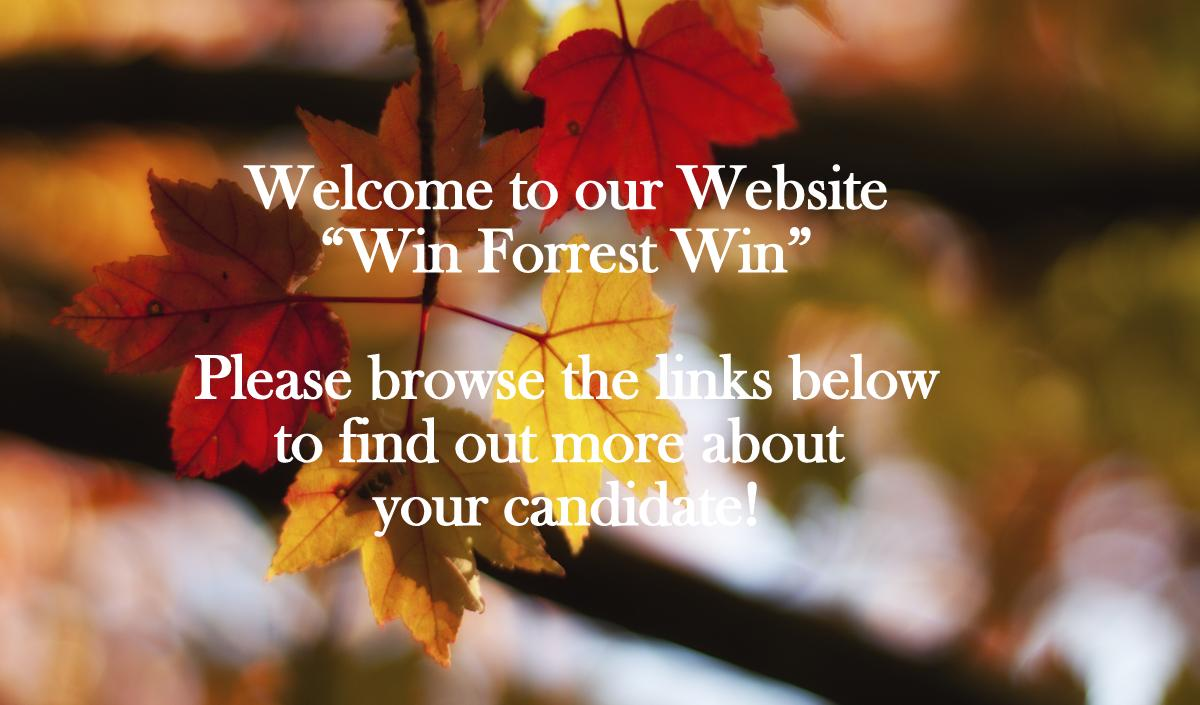
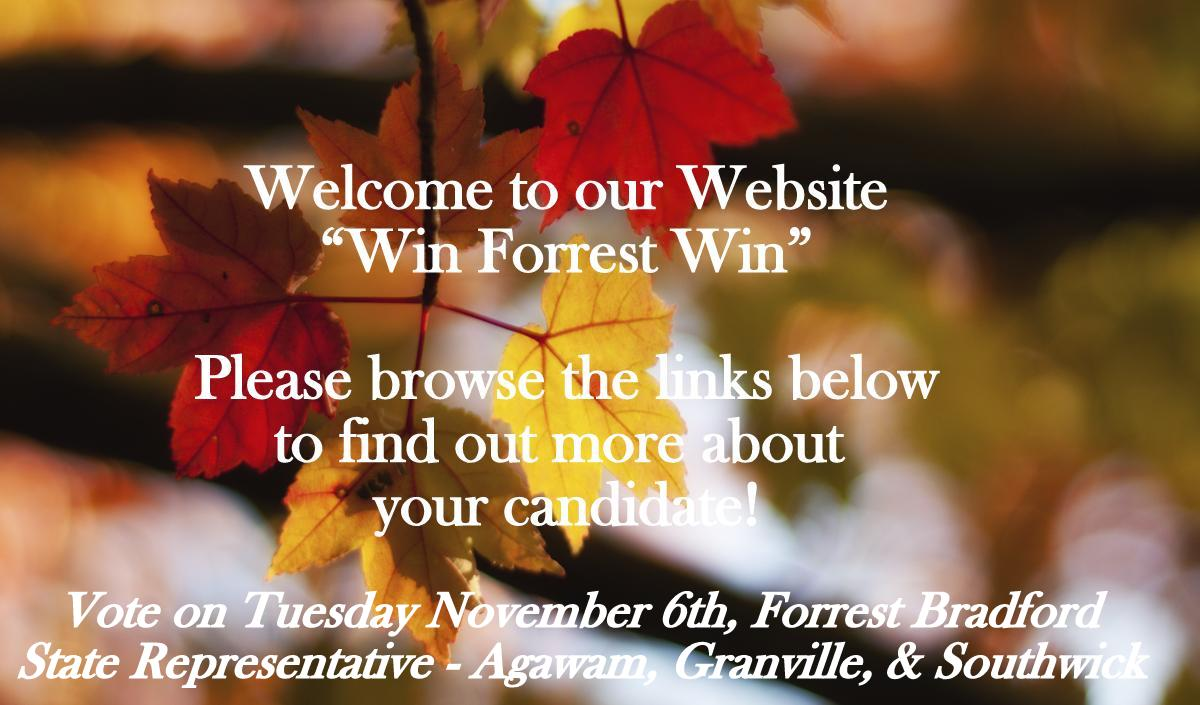
Add files via upload

Changed region(s): [[0.0, 0.8426, 0.925, 0.9674]]

diff --git a/index.html b/index.html
@@ -1,10 +1,20 @@
 ---
 title: Forrest Bradford
 subtitle: Please Elect Forrest to represent Agawam, Granville, and Southwick
-layout: default
+# layout: default
 # attributes: background="assets/images/School-Street-Park-Barn.jpg"
 # Forrest is your candidate for Massachusetts’s 3rd Hampden legislative district, representing Agawam, Granville, and Southwick.
 ---
+<head>
+    <style>
+    nav {
+        display: block;
+        text-align: center;
+        background-color: yellow;
+    }
+    </style>
+</head>
 <img src="assets/images/Welcome.jpg" alt="Forrest Bumper Stickers">
+{% include navigation.html %}
 
 
